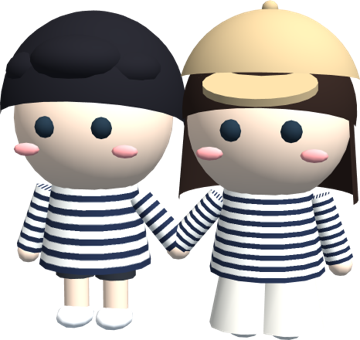
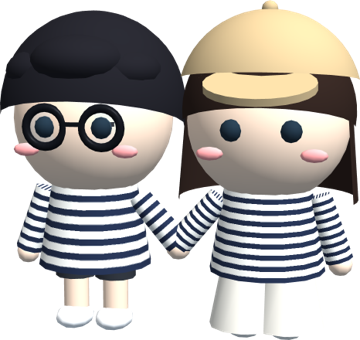
윤재: black full-rim glasses (character, vehicle heads, home illustration)
Claude-Session: https://claude.ai/code/session_013vFLV6YompNzPZ2jyR4KeR

Changed region(s): [[0.0611, 0.2941, 0.3667, 0.4706]]

diff --git a/hongkong-2026/index.html b/hongkong-2026/index.html
@@ -679,9 +679,12 @@ function chibi(o){ const g=new THREE.Group(); const legs=[]; const stripe=new TH
   if(o.fluffy){ hr.scale.set(1.1,1.12,1.1); hr.position.y=1.39; [[0,.36,.3,.3,.55],[-.24,.3,.22,.24,.6],[.24,.3,.22,.24,.6],[0,.42,-.1,.34,.6]].forEach(([x,y,z,r,sy])=>{ const m=new THREE.Mesh(new THREE.SphereGeometry(r,16,12),hair); m.scale.y=sy; m.position.set(x,1.32+y,z); g.add(m); }); }
   if(o.cap){ const cm=mat(o.cap); const dome=new THREE.Mesh(new THREE.SphereGeometry(.56,24,12,0,Math.PI*2,0,Math.PI*.42),cm); dome.position.y=1.43; dome.rotation.x=-.12; g.add(dome); const brim=new THREE.Mesh(new THREE.CylinderGeometry(.32,.32,.045,24),cm); brim.scale.z=.8; brim.position.set(0,1.56,.56); brim.rotation.x=.3; g.add(brim); const btn=new THREE.Mesh(new THREE.SphereGeometry(.05,8,6),cm); btn.position.y=1.99; g.add(btn); }
   const eye=mat('#1E2E3B'); [-.17,.17].forEach(dx=>{ const e=new THREE.Mesh(new THREE.SphereGeometry(.065,8,6),eye); e.position.set(dx,1.3,.47); g.add(e); });
+  if(o.glasses){ const gm=mat('#111318',{roughness:.4}); [-.17,.17].forEach(dx=>{ const rim=new THREE.Mesh(new THREE.TorusGeometry(.115,.026,8,24),gm); rim.position.set(dx,1.3,.475); g.add(rim); const lens=new THREE.Mesh(new THREE.CircleGeometry(.11,20),new THREE.MeshStandardMaterial({color:'#CFE2F0',transparent:true,opacity:.18,roughness:.1})); lens.position.set(dx,1.3,.478); g.add(lens); });
+    const br=new THREE.Mesh(new THREE.BoxGeometry(.11,.026,.026),gm); br.position.set(0,1.32,.49); g.add(br);
+    [-1,1].forEach(sd=>{ const tp=new THREE.Mesh(new THREE.BoxGeometry(.026,.026,.42),gm); tp.position.set(sd*.3,1.32,.27); tp.rotation.y=-sd*.42; g.add(tp); }); }
   const bl=mat('#FFA3A3'); [-.3,.3].forEach(dx=>{ const e=new THREE.Mesh(new THREE.SphereGeometry(.08,8,6),bl); e.scale.set(1,.5,.4); e.position.set(dx,1.16,.43); g.add(e); });
   g.traverse(m=>m.castShadow=true); g.userData.legs=legs; return g; }
-const duo=new THREE.Group(); const yj=chibi({hair:'#1C1C22',shorts:'#2B2F36',stripes:6,fluffy:true,hold:1}); yj.position.x=-.55; duo.add(yj); const gf=chibi({hair:'#2A1E1A',pants:'#EEE9DE',cap:'#BBA47C',long:true,stripes:8,shoe:'#F2EFE8',hold:-1}); gf.position.x=.55; duo.add(gf);
+const duo=new THREE.Group(); const yj=chibi({hair:'#1C1C22',shorts:'#2B2F36',stripes:6,fluffy:true,hold:1,glasses:true}); yj.position.x=-.55; duo.add(yj); const gf=chibi({hair:'#2A1E1A',pants:'#EEE9DE',cap:'#BBA47C',long:true,stripes:8,shoe:'#F2EFE8',hold:-1}); gf.position.x=.55; duo.add(gf);
 const disc=new THREE.Mesh(new THREE.CircleGeometry(1.2,24),new THREE.MeshBasicMaterial({color:0x000000,transparent:true,opacity:.15})); disc.rotation.x=-Math.PI/2; disc.position.y=.03; duo.add(disc);
 const marker=new THREE.Mesh(new THREE.OctahedronGeometry(.24),new THREE.MeshStandardMaterial({color:DAYC[0],emissive:new THREE.Color(DAYC[0]),emissiveIntensity:.35})); marker.position.y=2.55; duo.add(marker);
 /* ---- symphony of lights: landmark towers + beams ---- */
@@ -722,7 +725,7 @@ function fx(t,dt){
     for(let i=0;i<RAINN;i++){ let y=rainPos[i*3+1]-dt*34; if(y<0) y+=28; rainPos[i*3+1]=y; } rainGeo.attributes.position.needsUpdate=true; }
 }
 duo.scale.setScalar(1.35); scene.add(duo);
-function heads(g,y){ [-.35,.35].forEach((dx,i)=>{ const h=new THREE.Mesh(new THREE.SphereGeometry(.3,14,10),mat('#FFE0C7')); h.position.set(dx,y,0); g.add(h); const hr=new THREE.Mesh(new THREE.SphereGeometry(.32,14,8,0,Math.PI*2,0,Math.PI*.5),mat(i?'#2A1E1A':'#1C1C22')); hr.position.set(dx,y+.04,0); g.add(hr); if(i){ const cp=new THREE.Mesh(new THREE.SphereGeometry(.34,14,8,0,Math.PI*2,0,Math.PI*.42),mat('#BBA47C')); cp.position.set(dx,y+.08,0); g.add(cp); const br=new THREE.Mesh(new THREE.CylinderGeometry(.2,.2,.03,14,1,false,0,Math.PI),mat('#BBA47C')); br.position.set(dx,y+.17,.22); br.rotation.y=Math.PI/2; g.add(br); } }); }
+function heads(g,y){ [-.35,.35].forEach((dx,i)=>{ const h=new THREE.Mesh(new THREE.SphereGeometry(.3,14,10),mat('#FFE0C7')); h.position.set(dx,y,0); g.add(h); if(!i){ const gm=mat('#111318'); [-.09,.09].forEach(ex=>{ const r=new THREE.Mesh(new THREE.TorusGeometry(.065,.016,6,18),gm); r.position.set(dx+ex,y,.29); g.add(r); }); } const hr=new THREE.Mesh(new THREE.SphereGeometry(.32,14,8,0,Math.PI*2,0,Math.PI*.5),mat(i?'#2A1E1A':'#1C1C22')); hr.position.set(dx,y+.04,0); g.add(hr); if(i){ const cp=new THREE.Mesh(new THREE.SphereGeometry(.34,14,8,0,Math.PI*2,0,Math.PI*.42),mat('#BBA47C')); cp.position.set(dx,y+.08,0); g.add(cp); const br=new THREE.Mesh(new THREE.CylinderGeometry(.2,.2,.03,14,1,false,0,Math.PI),mat('#BBA47C')); br.position.set(dx,y+.17,.22); br.rotation.y=Math.PI/2; g.add(br); } }); }
 const V={};
 V.taxi=(()=>{ const g=new THREE.Group(); const b=new THREE.Mesh(new THREE.BoxGeometry(2,.6,1.1),mat('#E5383B')); b.position.y=.45; g.add(b); const c=new THREE.Mesh(new THREE.BoxGeometry(1.1,.45,1),mat('#F4F4F4')); c.position.set(-.1,.95,0); g.add(c); heads(g,1.35);
   [[-.65,.55],[.65,.55],[-.65,-.55],[.65,-.55]].forEach(([x,z])=>{ const w=new THREE.Mesh(new THREE.CylinderGeometry(.2,.2,.15,12),mat('#333')); w.rotation.x=Math.PI/2; w.position.set(x,.2,z); g.add(w); }); return g; })();

diff --git a/src/template.html b/src/template.html
@@ -677,9 +677,12 @@ function chibi(o){ const g=new THREE.Group(); const legs=[]; const stripe=new TH
   if(o.fluffy){ hr.scale.set(1.1,1.12,1.1); hr.position.y=1.39; [[0,.36,.3,.3,.55],[-.24,.3,.22,.24,.6],[.24,.3,.22,.24,.6],[0,.42,-.1,.34,.6]].forEach(([x,y,z,r,sy])=>{ const m=new THREE.Mesh(new THREE.SphereGeometry(r,16,12),hair); m.scale.y=sy; m.position.set(x,1.32+y,z); g.add(m); }); }
   if(o.cap){ const cm=mat(o.cap); const dome=new THREE.Mesh(new THREE.SphereGeometry(.56,24,12,0,Math.PI*2,0,Math.PI*.42),cm); dome.position.y=1.43; dome.rotation.x=-.12; g.add(dome); const brim=new THREE.Mesh(new THREE.CylinderGeometry(.32,.32,.045,24),cm); brim.scale.z=.8; brim.position.set(0,1.56,.56); brim.rotation.x=.3; g.add(brim); const btn=new THREE.Mesh(new THREE.SphereGeometry(.05,8,6),cm); btn.position.y=1.99; g.add(btn); }
   const eye=mat('#1E2E3B'); [-.17,.17].forEach(dx=>{ const e=new THREE.Mesh(new THREE.SphereGeometry(.065,8,6),eye); e.position.set(dx,1.3,.47); g.add(e); });
+  if(o.glasses){ const gm=mat('#111318',{roughness:.4}); [-.17,.17].forEach(dx=>{ const rim=new THREE.Mesh(new THREE.TorusGeometry(.115,.026,8,24),gm); rim.position.set(dx,1.3,.475); g.add(rim); const lens=new THREE.Mesh(new THREE.CircleGeometry(.11,20),new THREE.MeshStandardMaterial({color:'#CFE2F0',transparent:true,opacity:.18,roughness:.1})); lens.position.set(dx,1.3,.478); g.add(lens); });
+    const br=new THREE.Mesh(new THREE.BoxGeometry(.11,.026,.026),gm); br.position.set(0,1.32,.49); g.add(br);
+    [-1,1].forEach(sd=>{ const tp=new THREE.Mesh(new THREE.BoxGeometry(.026,.026,.42),gm); tp.position.set(sd*.3,1.32,.27); tp.rotation.y=-sd*.42; g.add(tp); }); }
   const bl=mat('#FFA3A3'); [-.3,.3].forEach(dx=>{ const e=new THREE.Mesh(new THREE.SphereGeometry(.08,8,6),bl); e.scale.set(1,.5,.4); e.position.set(dx,1.16,.43); g.add(e); });
   g.traverse(m=>m.castShadow=true); g.userData.legs=legs; return g; }
-const duo=new THREE.Group(); const yj=chibi({hair:'#1C1C22',shorts:'#2B2F36',stripes:6,fluffy:true,hold:1}); yj.position.x=-.55; duo.add(yj); const gf=chibi({hair:'#2A1E1A',pants:'#EEE9DE',cap:'#BBA47C',long:true,stripes:8,shoe:'#F2EFE8',hold:-1}); gf.position.x=.55; duo.add(gf);
+const duo=new THREE.Group(); const yj=chibi({hair:'#1C1C22',shorts:'#2B2F36',stripes:6,fluffy:true,hold:1,glasses:true}); yj.position.x=-.55; duo.add(yj); const gf=chibi({hair:'#2A1E1A',pants:'#EEE9DE',cap:'#BBA47C',long:true,stripes:8,shoe:'#F2EFE8',hold:-1}); gf.position.x=.55; duo.add(gf);
 const disc=new THREE.Mesh(new THREE.CircleGeometry(1.2,24),new THREE.MeshBasicMaterial({color:0x000000,transparent:true,opacity:.15})); disc.rotation.x=-Math.PI/2; disc.position.y=.03; duo.add(disc);
 const marker=new THREE.Mesh(new THREE.OctahedronGeometry(.24),new THREE.MeshStandardMaterial({color:DAYC[0],emissive:new THREE.Color(DAYC[0]),emissiveIntensity:.35})); marker.position.y=2.55; duo.add(marker);
 /* ---- symphony of lights: landmark towers + beams ---- */
@@ -720,7 +723,7 @@ function fx(t,dt){
     for(let i=0;i<RAINN;i++){ let y=rainPos[i*3+1]-dt*34; if(y<0) y+=28; rainPos[i*3+1]=y; } rainGeo.attributes.position.needsUpdate=true; }
 }
 duo.scale.setScalar(1.35); scene.add(duo);
-function heads(g,y){ [-.35,.35].forEach((dx,i)=>{ const h=new THREE.Mesh(new THREE.SphereGeometry(.3,14,10),mat('#FFE0C7')); h.position.set(dx,y,0); g.add(h); const hr=new THREE.Mesh(new THREE.SphereGeometry(.32,14,8,0,Math.PI*2,0,Math.PI*.5),mat(i?'#2A1E1A':'#1C1C22')); hr.position.set(dx,y+.04,0); g.add(hr); if(i){ const cp=new THREE.Mesh(new THREE.SphereGeometry(.34,14,8,0,Math.PI*2,0,Math.PI*.42),mat('#BBA47C')); cp.position.set(dx,y+.08,0); g.add(cp); const br=new THREE.Mesh(new THREE.CylinderGeometry(.2,.2,.03,14,1,false,0,Math.PI),mat('#BBA47C')); br.position.set(dx,y+.17,.22); br.rotation.y=Math.PI/2; g.add(br); } }); }
+function heads(g,y){ [-.35,.35].forEach((dx,i)=>{ const h=new THREE.Mesh(new THREE.SphereGeometry(.3,14,10),mat('#FFE0C7')); h.position.set(dx,y,0); g.add(h); if(!i){ const gm=mat('#111318'); [-.09,.09].forEach(ex=>{ const r=new THREE.Mesh(new THREE.TorusGeometry(.065,.016,6,18),gm); r.position.set(dx+ex,y,.29); g.add(r); }); } const hr=new THREE.Mesh(new THREE.SphereGeometry(.32,14,8,0,Math.PI*2,0,Math.PI*.5),mat(i?'#2A1E1A':'#1C1C22')); hr.position.set(dx,y+.04,0); g.add(hr); if(i){ const cp=new THREE.Mesh(new THREE.SphereGeometry(.34,14,8,0,Math.PI*2,0,Math.PI*.42),mat('#BBA47C')); cp.position.set(dx,y+.08,0); g.add(cp); const br=new THREE.Mesh(new THREE.CylinderGeometry(.2,.2,.03,14,1,false,0,Math.PI),mat('#BBA47C')); br.position.set(dx,y+.17,.22); br.rotation.y=Math.PI/2; g.add(br); } }); }
 const V={};
 V.taxi=(()=>{ const g=new THREE.Group(); const b=new THREE.Mesh(new THREE.BoxGeometry(2,.6,1.1),mat('#E5383B')); b.position.y=.45; g.add(b); const c=new THREE.Mesh(new THREE.BoxGeometry(1.1,.45,1),mat('#F4F4F4')); c.position.set(-.1,.95,0); g.add(c); heads(g,1.35);
   [[-.65,.55],[.65,.55],[-.65,-.55],[.65,-.55]].forEach(([x,z])=>{ const w=new THREE.Mesh(new THREE.CylinderGeometry(.2,.2,.15,12),mat('#333')); w.rotation.x=Math.PI/2; w.position.set(x,.2,z); g.add(w); }); return g; })();
